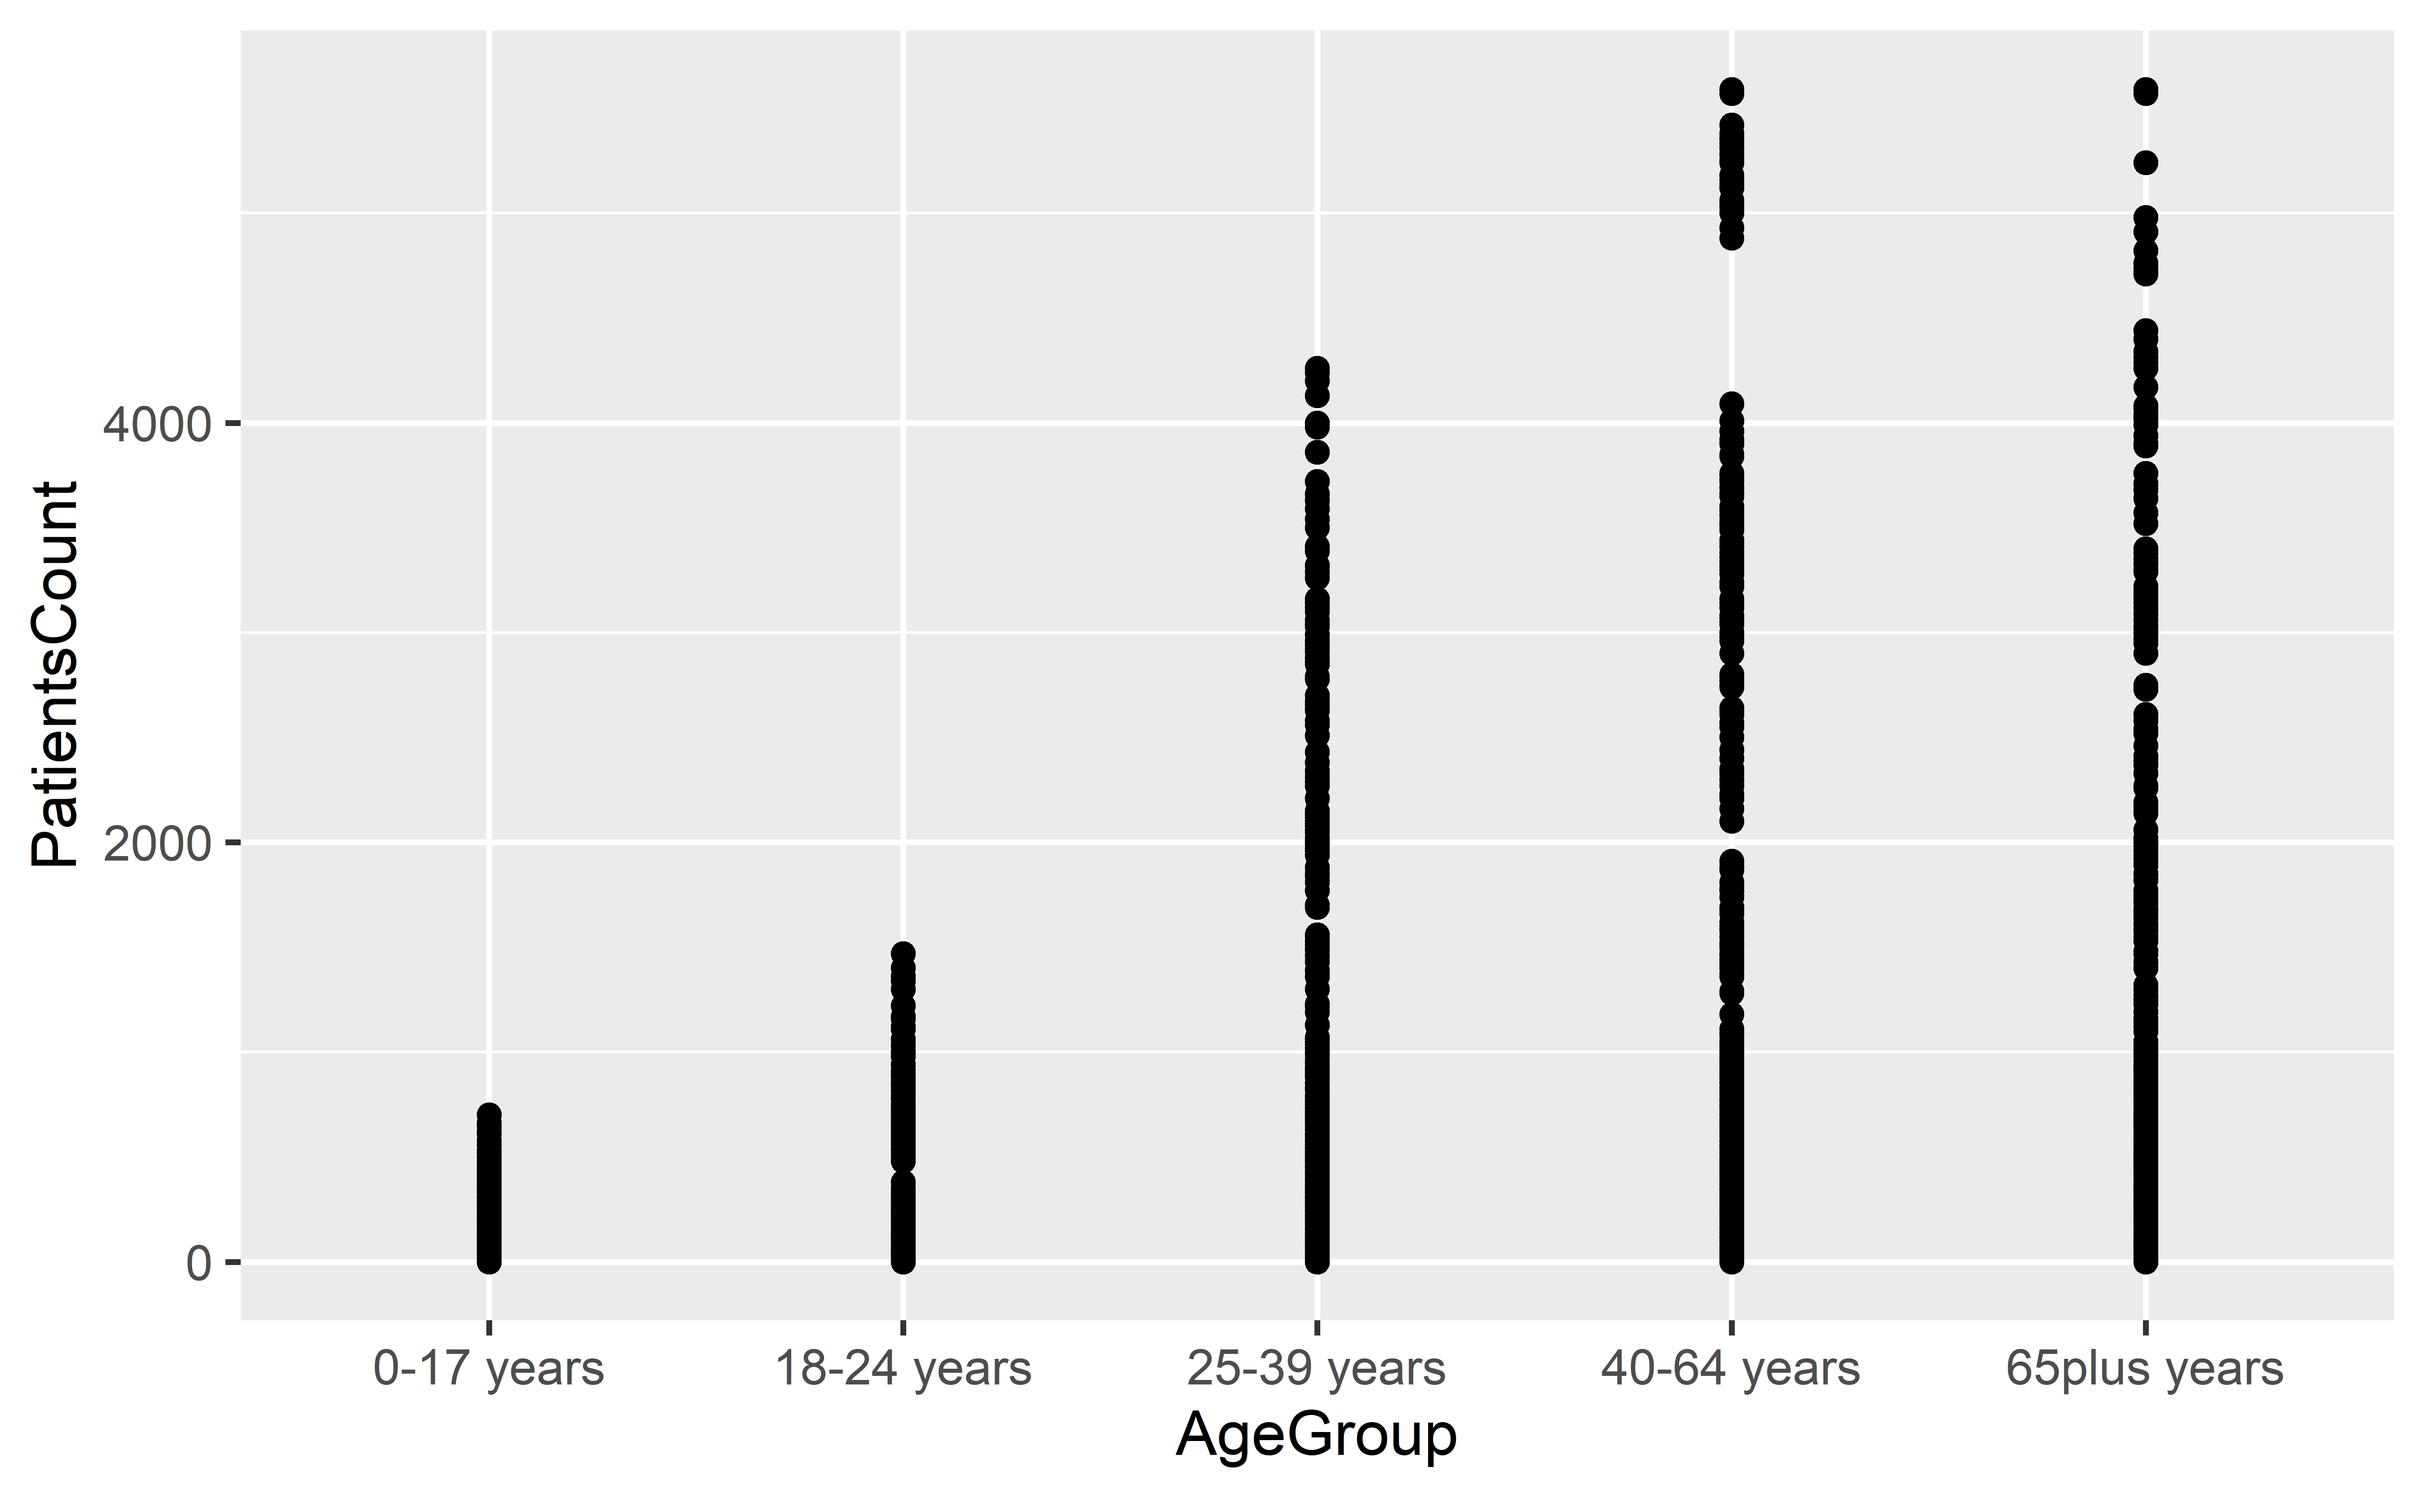
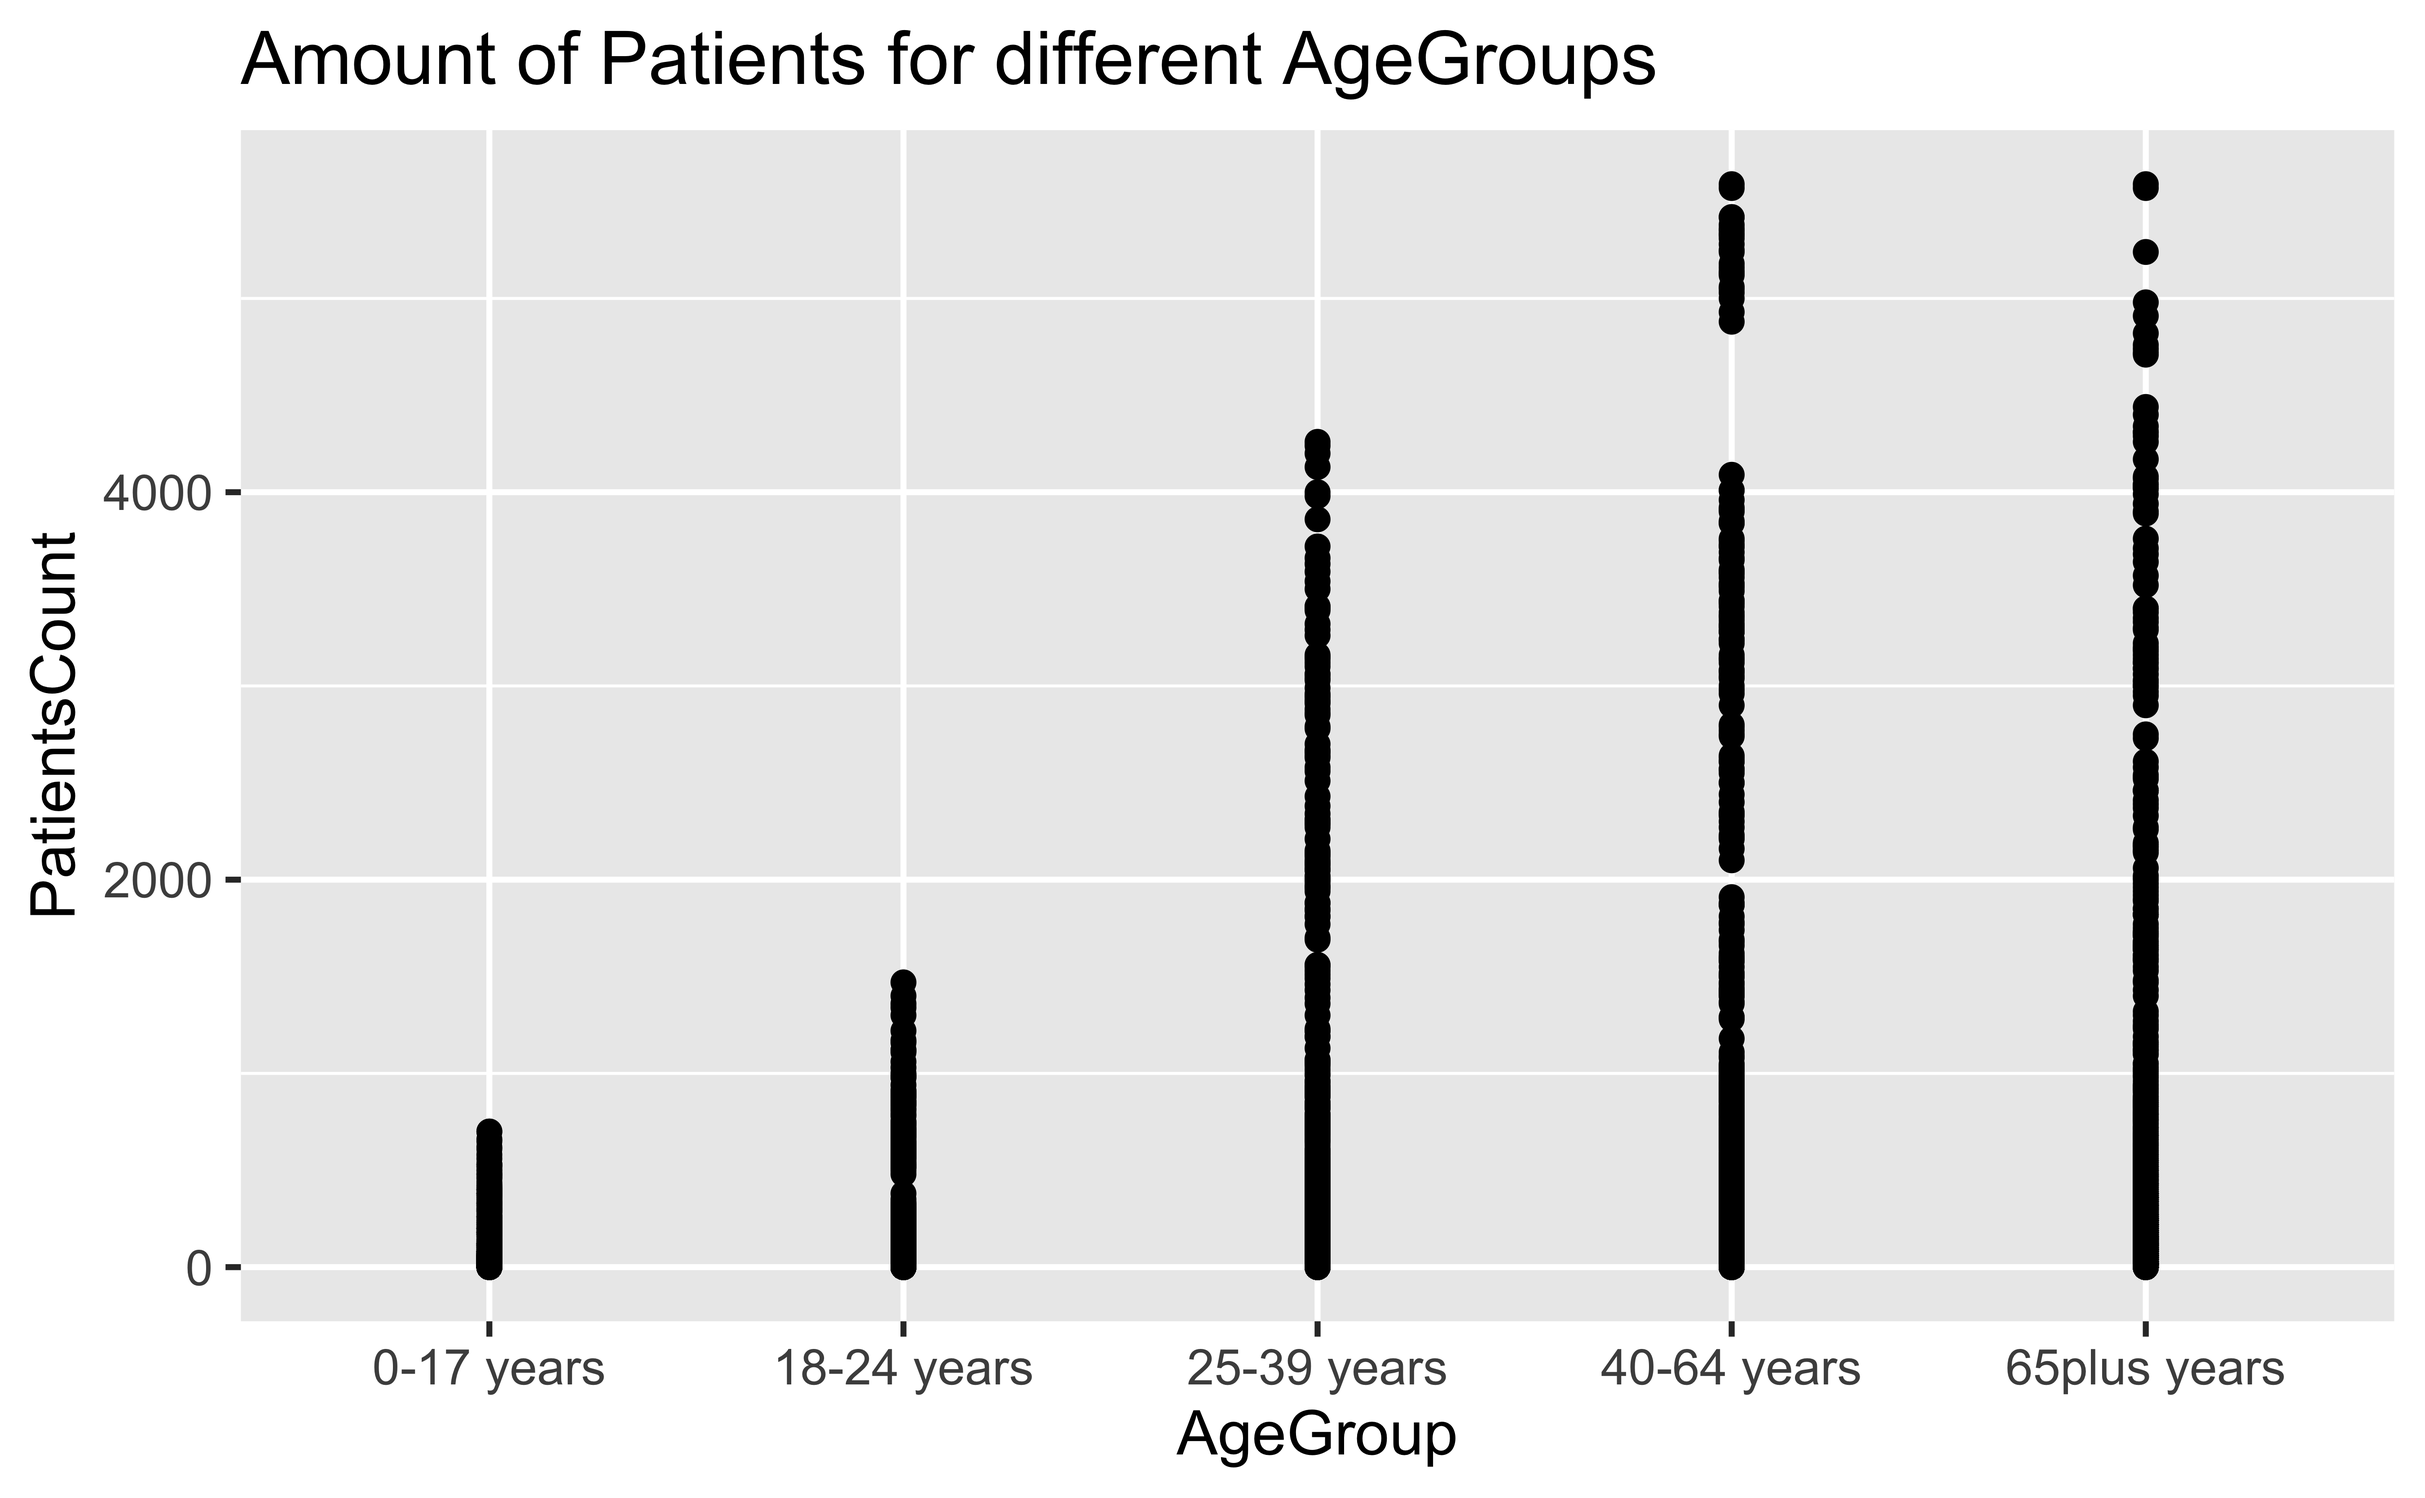
Add a ggplot graph Add a summary

diff --git a/presentation.html b/presentation.html
@@ -4,7 +4,7 @@
     <title>Mental Health Inpatient Activity</title>
     <meta charset="utf-8" />
     <meta name="author" content="Team name   Leah Cookson, Sophie Arthur, Aliya Mosha, Roey Nie" />
-    <meta name="date" content="2022-10-26" />
+    <meta name="date" content="2022-10-27" />
     <script src="libs/header-attrs-2.16/header-attrs.js"></script>
     <link rel="stylesheet" href="xaringan-themer.css" type="text/css" />
   </head>
@@ -25,7 +25,7 @@ class: center, middle, inverse, title-slide
 ### University of Edinburgh
 ]
 .date[
-### 2022-10-26
+### 2022-10-27
 ]
 
 ---
@@ -109,6 +109,9 @@ Comparison Groups:
 Preliminary Exploratory Data Analysis
 
 &lt;img src="presentation_files/figure-html/unnamed-chunk-4-1.png" width="80%" /&gt;
+---
+&lt;img src="presentation_files/figure-html/unnamed-chunk-5-1.png" width="80%" /&gt;
+---
 
 ```
 ## # A tibble: 1 × 3
@@ -116,8 +119,6 @@ Preliminary Exploratory Data Analysis
 ##    &lt;dbl&gt;  &lt;dbl&gt;  &lt;dbl&gt;
 ## 1   284.  11750      0
 ```
----
----
 Key Summary Statistics:
 
 Average Discharge Count = 284
@@ -125,7 +126,14 @@ Maximum Discharge Count = 11750
 Minimum Discharge Count = 0
 
 ---
+Sammary
 
+- 40~64 AgeGroup
+ - highest count on both graphs
+ 
+- 65+ AgeGroup
+ - 2nd highest count on both graphs
+ - DischargeCount is much lower than PatientCount
 ---
     </textarea>
 <style data-target="print-only">@media screen {.remark-slide-container{display:block;}.remark-slide-scaler{box-shadow:none;}}</style>
